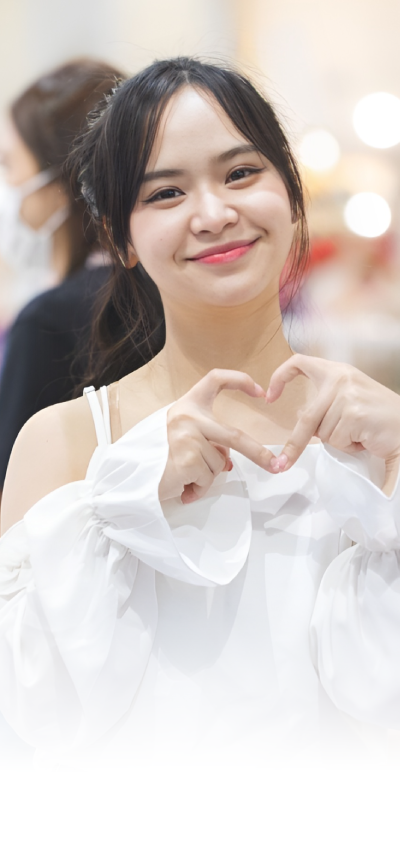
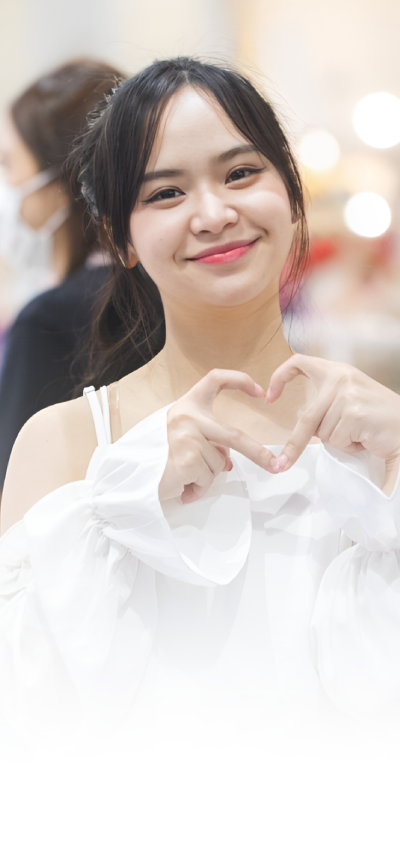
fix: mobile size remove scroll

diff --git a/src/components/CoverPage.vue b/src/components/CoverPage.vue
@@ -347,6 +347,7 @@ import "boxicons";
     border: 2px solid #044560;
     cursor: pointer;
     border-radius: 3em;
+    display: none;
   }
   .scroll-down-btn::before {
     position: absolute;
@@ -390,7 +391,7 @@ import "boxicons";
     height: 100vh;
     max-width: 100%;
     background-size: cover;
-    background-position: center;
+    background-position: top;
     flex-shrink: 0;
     background-image: url("../../assets/MobileCoverImage.png");
     display: flex;
@@ -403,7 +404,7 @@ import "boxicons";
     flex-direction: column;
     justify-content: center;
     margin-left: 0px;
-    margin-bottom: 130px;
+    margin-bottom: 50px;
   }
 
   .txt {
